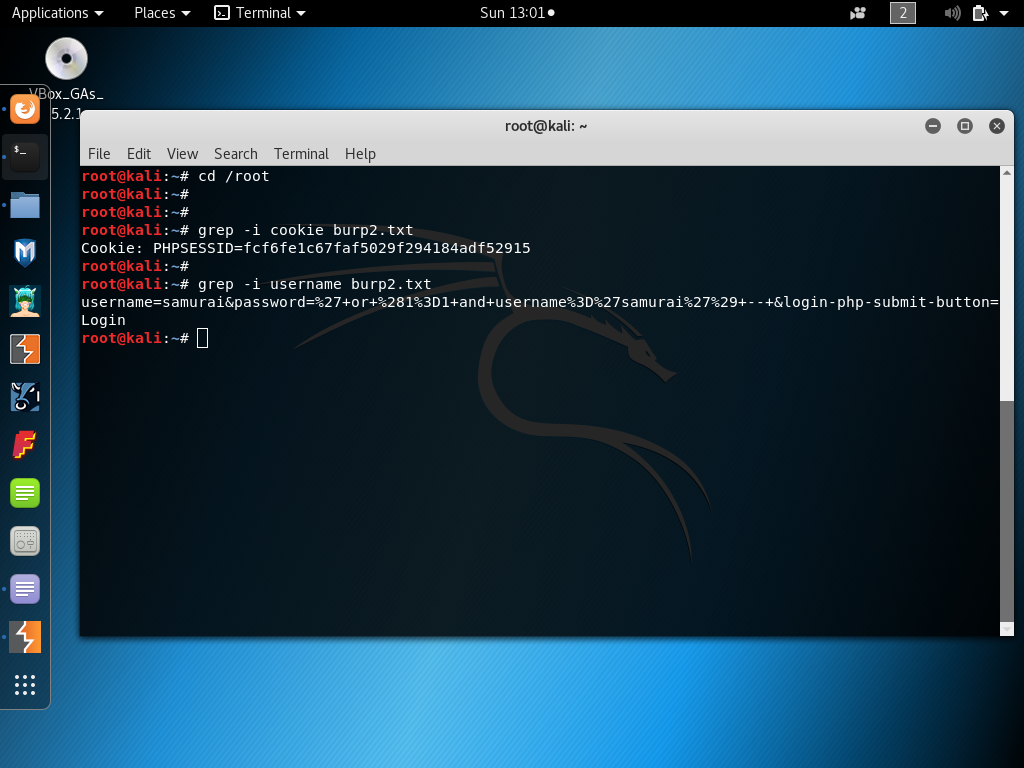
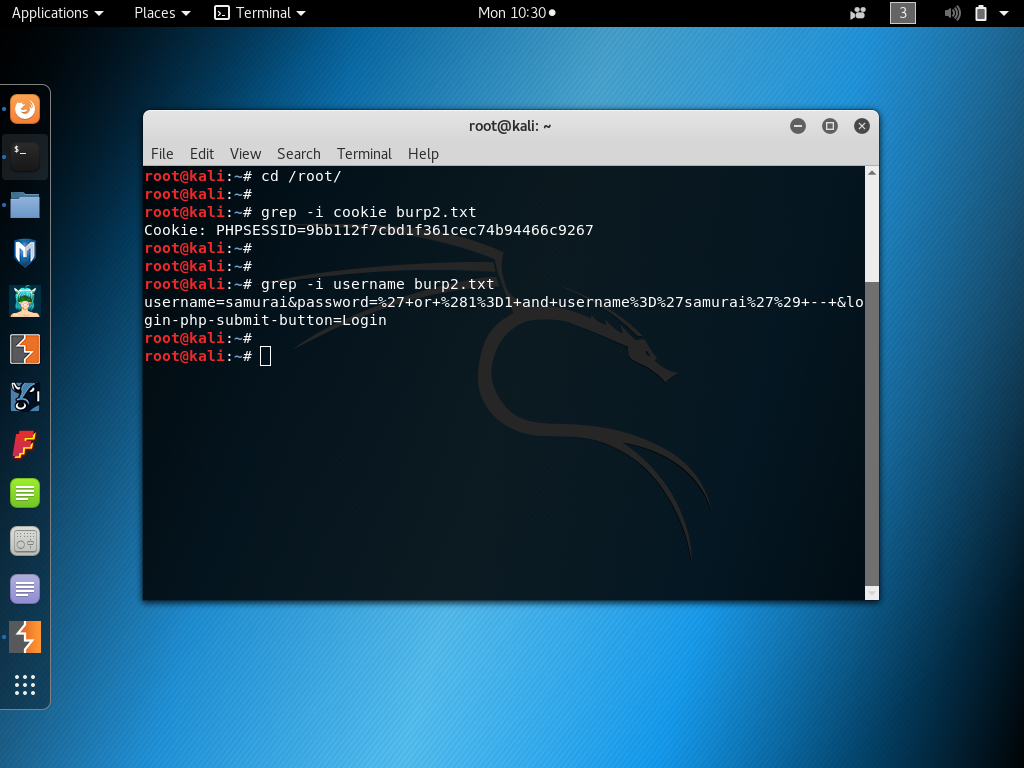
update assets on lesson 6

diff --git a/Laporan_Tugas_Final/uji_coba/Lesson_6.md b/Laporan_Tugas_Final/uji_coba/Lesson_6.md
@@ -46,6 +46,7 @@
    - Pada kolom Textbox **Name** isikan **`' or 1=1 -- `**
    - Pastikan anda menambahkan spasi setelah karakter **`--`**
    - Klik tombol Login
+![alt text](https://github.com/luqmanahmads/laporan-pksj/blob/master/assets/lesson_6/2/login_without_uname.png "Home page")
 2. View Post Data (With Burp Suite)
    - Klik pada Tab Proxy
    - Klik pada Tab History
@@ -60,11 +61,9 @@
    - Buka terminal, ketikkan perintah-perintah berikut : 
 ```bash
 curl -b crack_cookies.txt -c crack_cookies.txt --user-agent "Mozilla/4.0 (compatible; MSIE 5.01; Windows NT 5.0)" --data "username=%27+or+1%3D1+--+&password=&login-php-submit-button=Login" --location "http://10.0.1.100/mutillidae/index.php?page=login.php" > login1.txt
-```
-```bash
+
 grep "Logged In" login1.txt
-```
-```bash
+
 cat crack_cookies.txt
 ```
    - Session cookies akan disimpan pada file crack_cookies.txt
@@ -78,10 +77,12 @@ cat crack_cookies.txt
 2. Edit Password Box Element
    - Replace string password menjadi text
    - Pada bagian size dan maxlength tambahkan kapasistasnya dari yg semula 20 menjadi 50
+![alt text](https://github.com/luqmanahmads/laporan-pksj/blob/master/assets/lesson_6/4/inspect_samurai.png "Home page")
 3. Berikan Kondisi Selalu True pada kolom Textbox Password
    - Pada kolom Textbox Password isikan **`' or (1=1 and username='samurai')--`**
    - Pastikan anda menambahkan spasi setelah karakter **`--`**
    - Klik tombol Login
+![alt text](https://github.com/luqmanahmads/laporan-pksj/blob/master/assets/lesson_6/4/samurai_with_pass.png "Home page")
 4. View Post Data (With Burp Suite)
    - Klik pada Tab Proxy Tab
    - Klik pada Tab History
@@ -89,19 +90,18 @@ cat crack_cookies.txt
    - Klik pada Tab Request
    - Klik pada Tab Raw
    - Highligt text, kemudian klik kanan
-   - Klik "Copy to FIle" 
+   - Klik "Copy to File" 
 5. Save File
    - Save file di dalam folder **root**
    - File Name: **burp2.txt**
    - Klik tombol Save
-![alt text](https://github.com/luqmanahmads/laporan-pksj/blob/master/assets/lesson_6/4/save_raw_data.png "Home page")
+![alt text](https://github.com/luqmanahmads/laporan-pksj/blob/master/assets/lesson_6/4/save_burp.png "Home page")
 6. View Post Data (With Burpsuite)
    - cd /root
    - Jalankan perintah berikut:
 ```bash
- grep -i cookie burp2.txt
-```
-```bash
+grep -i cookie burp2.txt
+
 grep -i username burp2.txt
 ```
 ![alt text](https://github.com/luqmanahmads/laporan-pksj/blob/master/assets/lesson_6/4/run_command.png "Home page")
@@ -111,18 +111,15 @@ Simulate cURL SQL Injection: (Obtain Access #2)
    - Buka terminal, ketikkan perintah-perintah berikut : 
 ```bash 
 rm crack_cookies.txt
-```
-```bash
+
 curl -b crack_cookies.txt -c crack_cookies.txt --user-agent "Mozilla/4.0 (compatible; MSIE 5.01; Windows NT 5.0)" --data "username=samurai&password=%27+or+%281%3D1+and+username%3D%27samurai%27%29+--+&login-php-submit-button=Login" --location "http://10.0.1.100/mutillidae/index.php?page=login.php" > login2.txt
-``` 
-```bash
+
 grep "Logged In" login2.txt
-```
-```bash
+
 cat crack_cookies.txt
 ```
    - Session cookies akan disimpan pada file crack_cookies.txt
-![alt text](https://github.com/luqmanahmads/laporan-pksj/blob/master/assets/lesson_6/3/result_obtain_1.png "Home page")
+![alt text](https://github.com/luqmanahmads/laporan-pksj/blob/master/assets/lesson_6/4/run_command_2.png "Home page")
 
 ## Restore Firefox Original Proxy Configurations
 1. View Preferences
